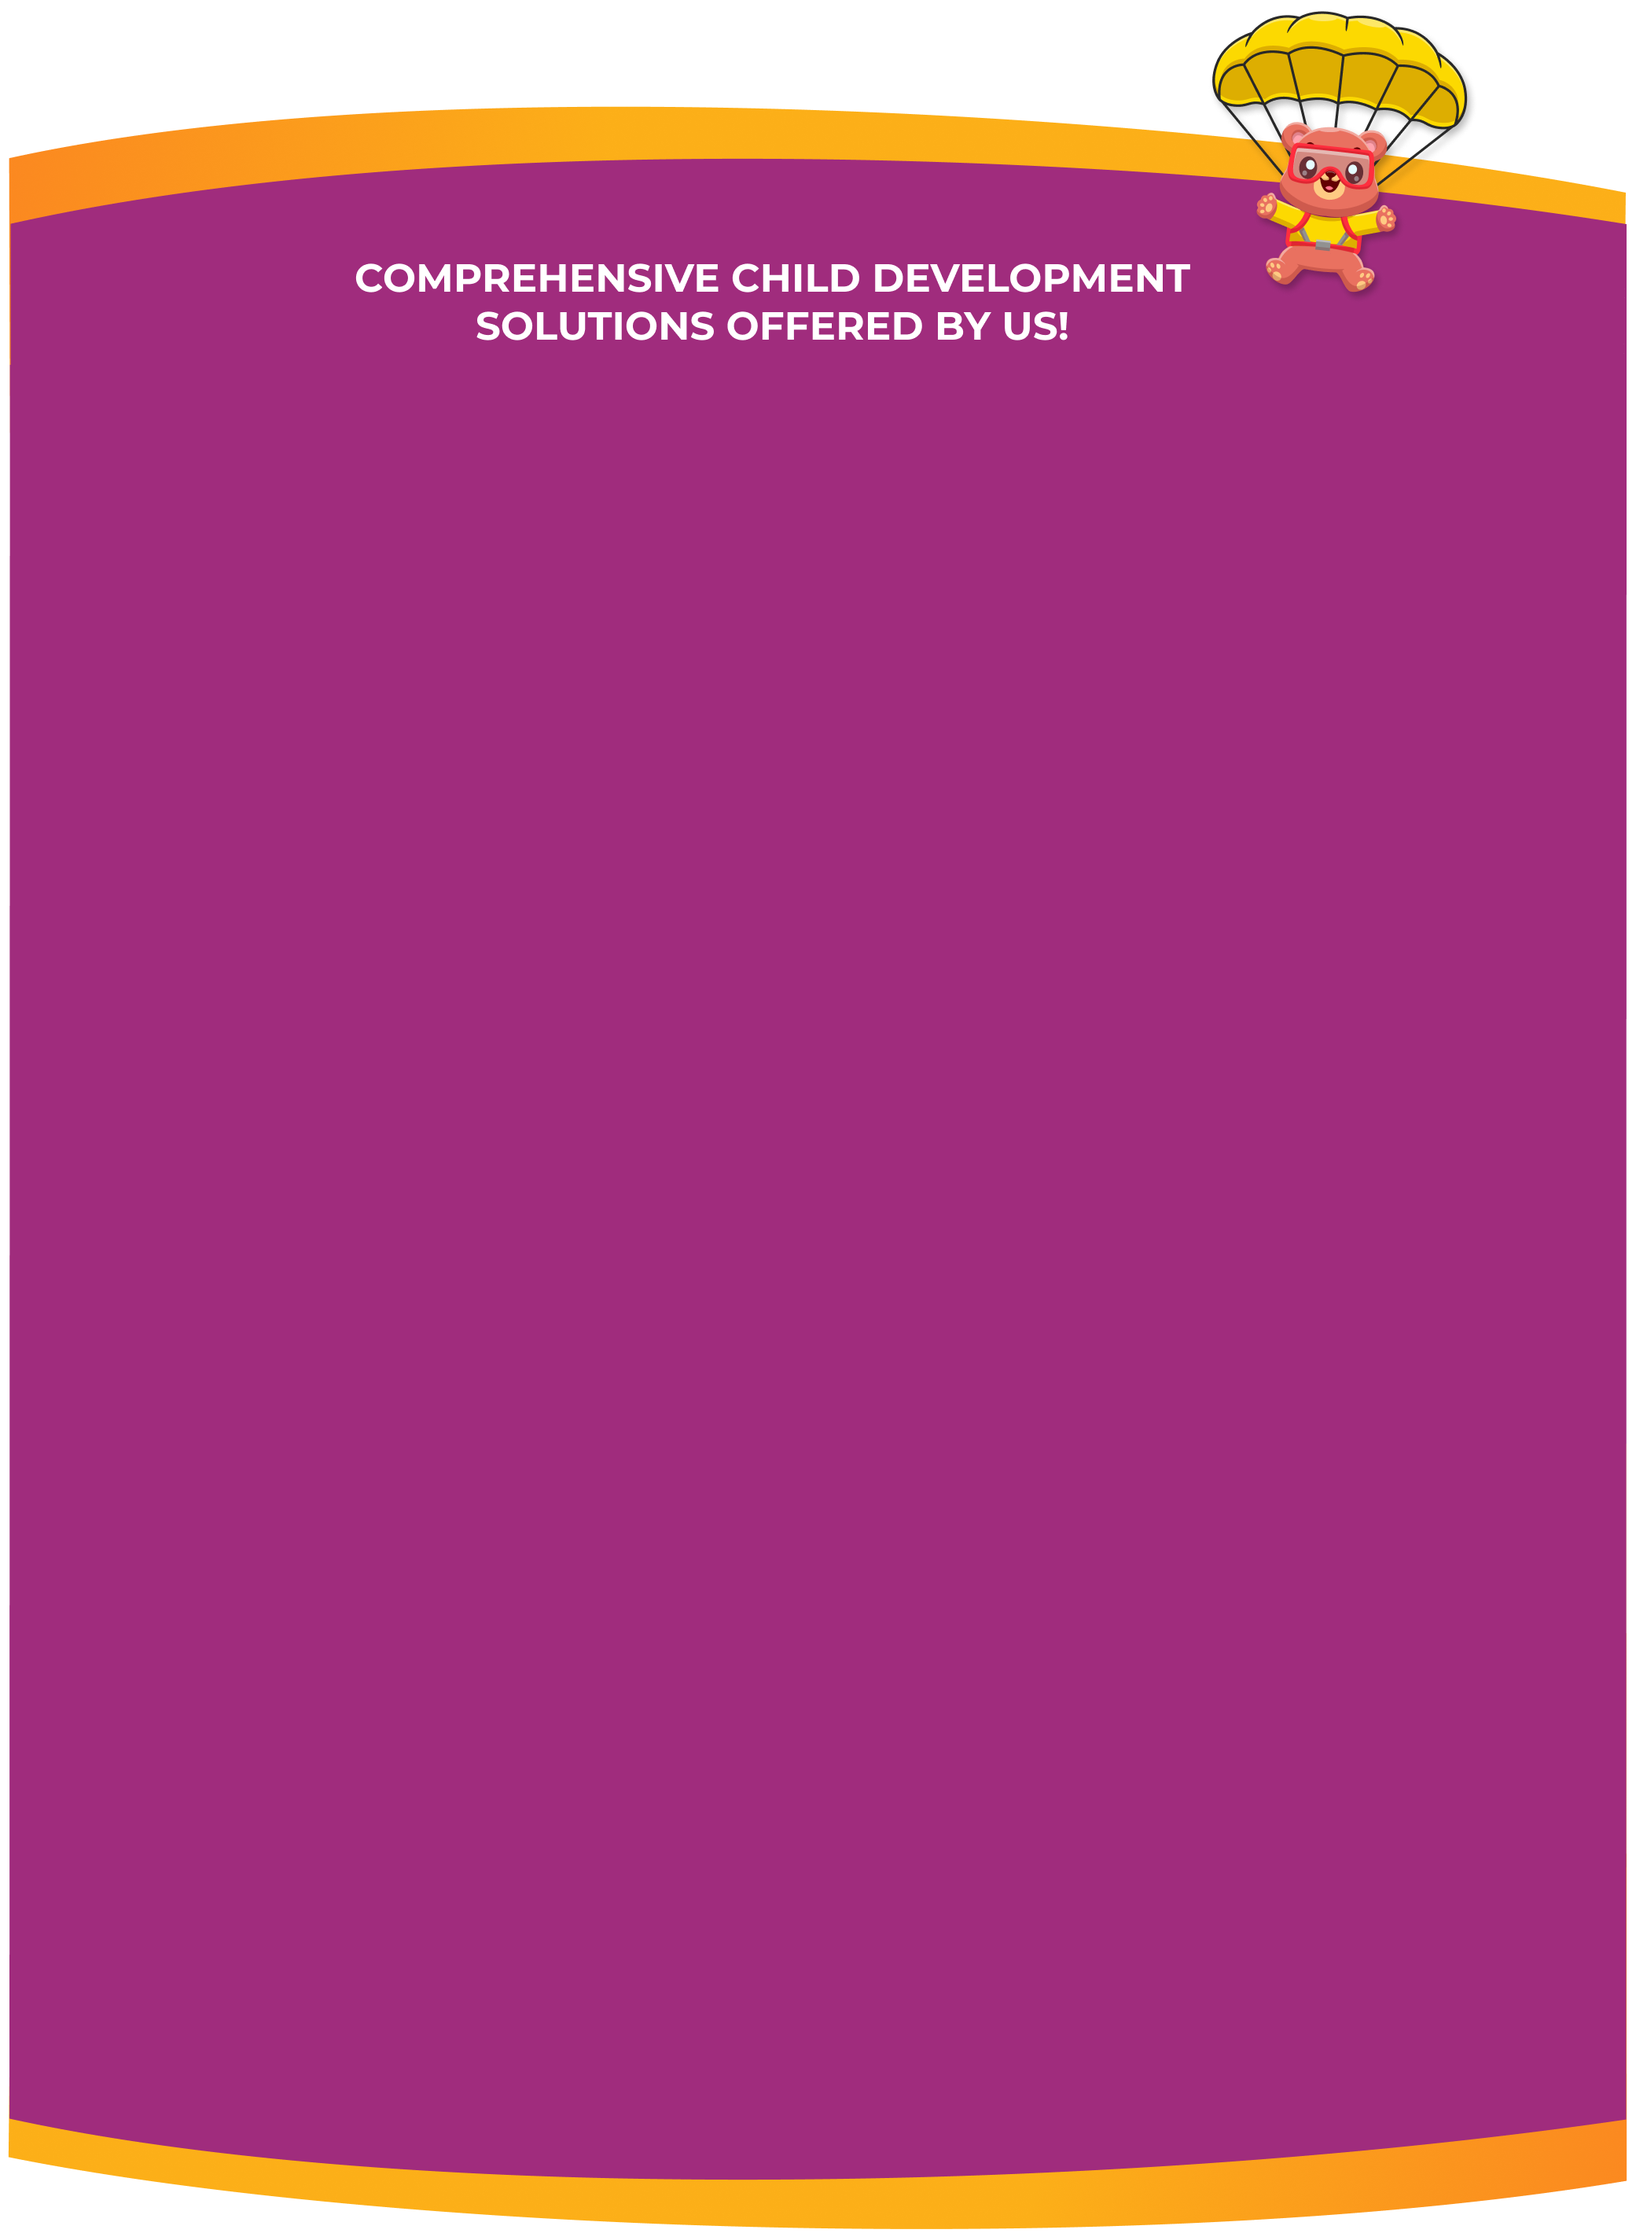
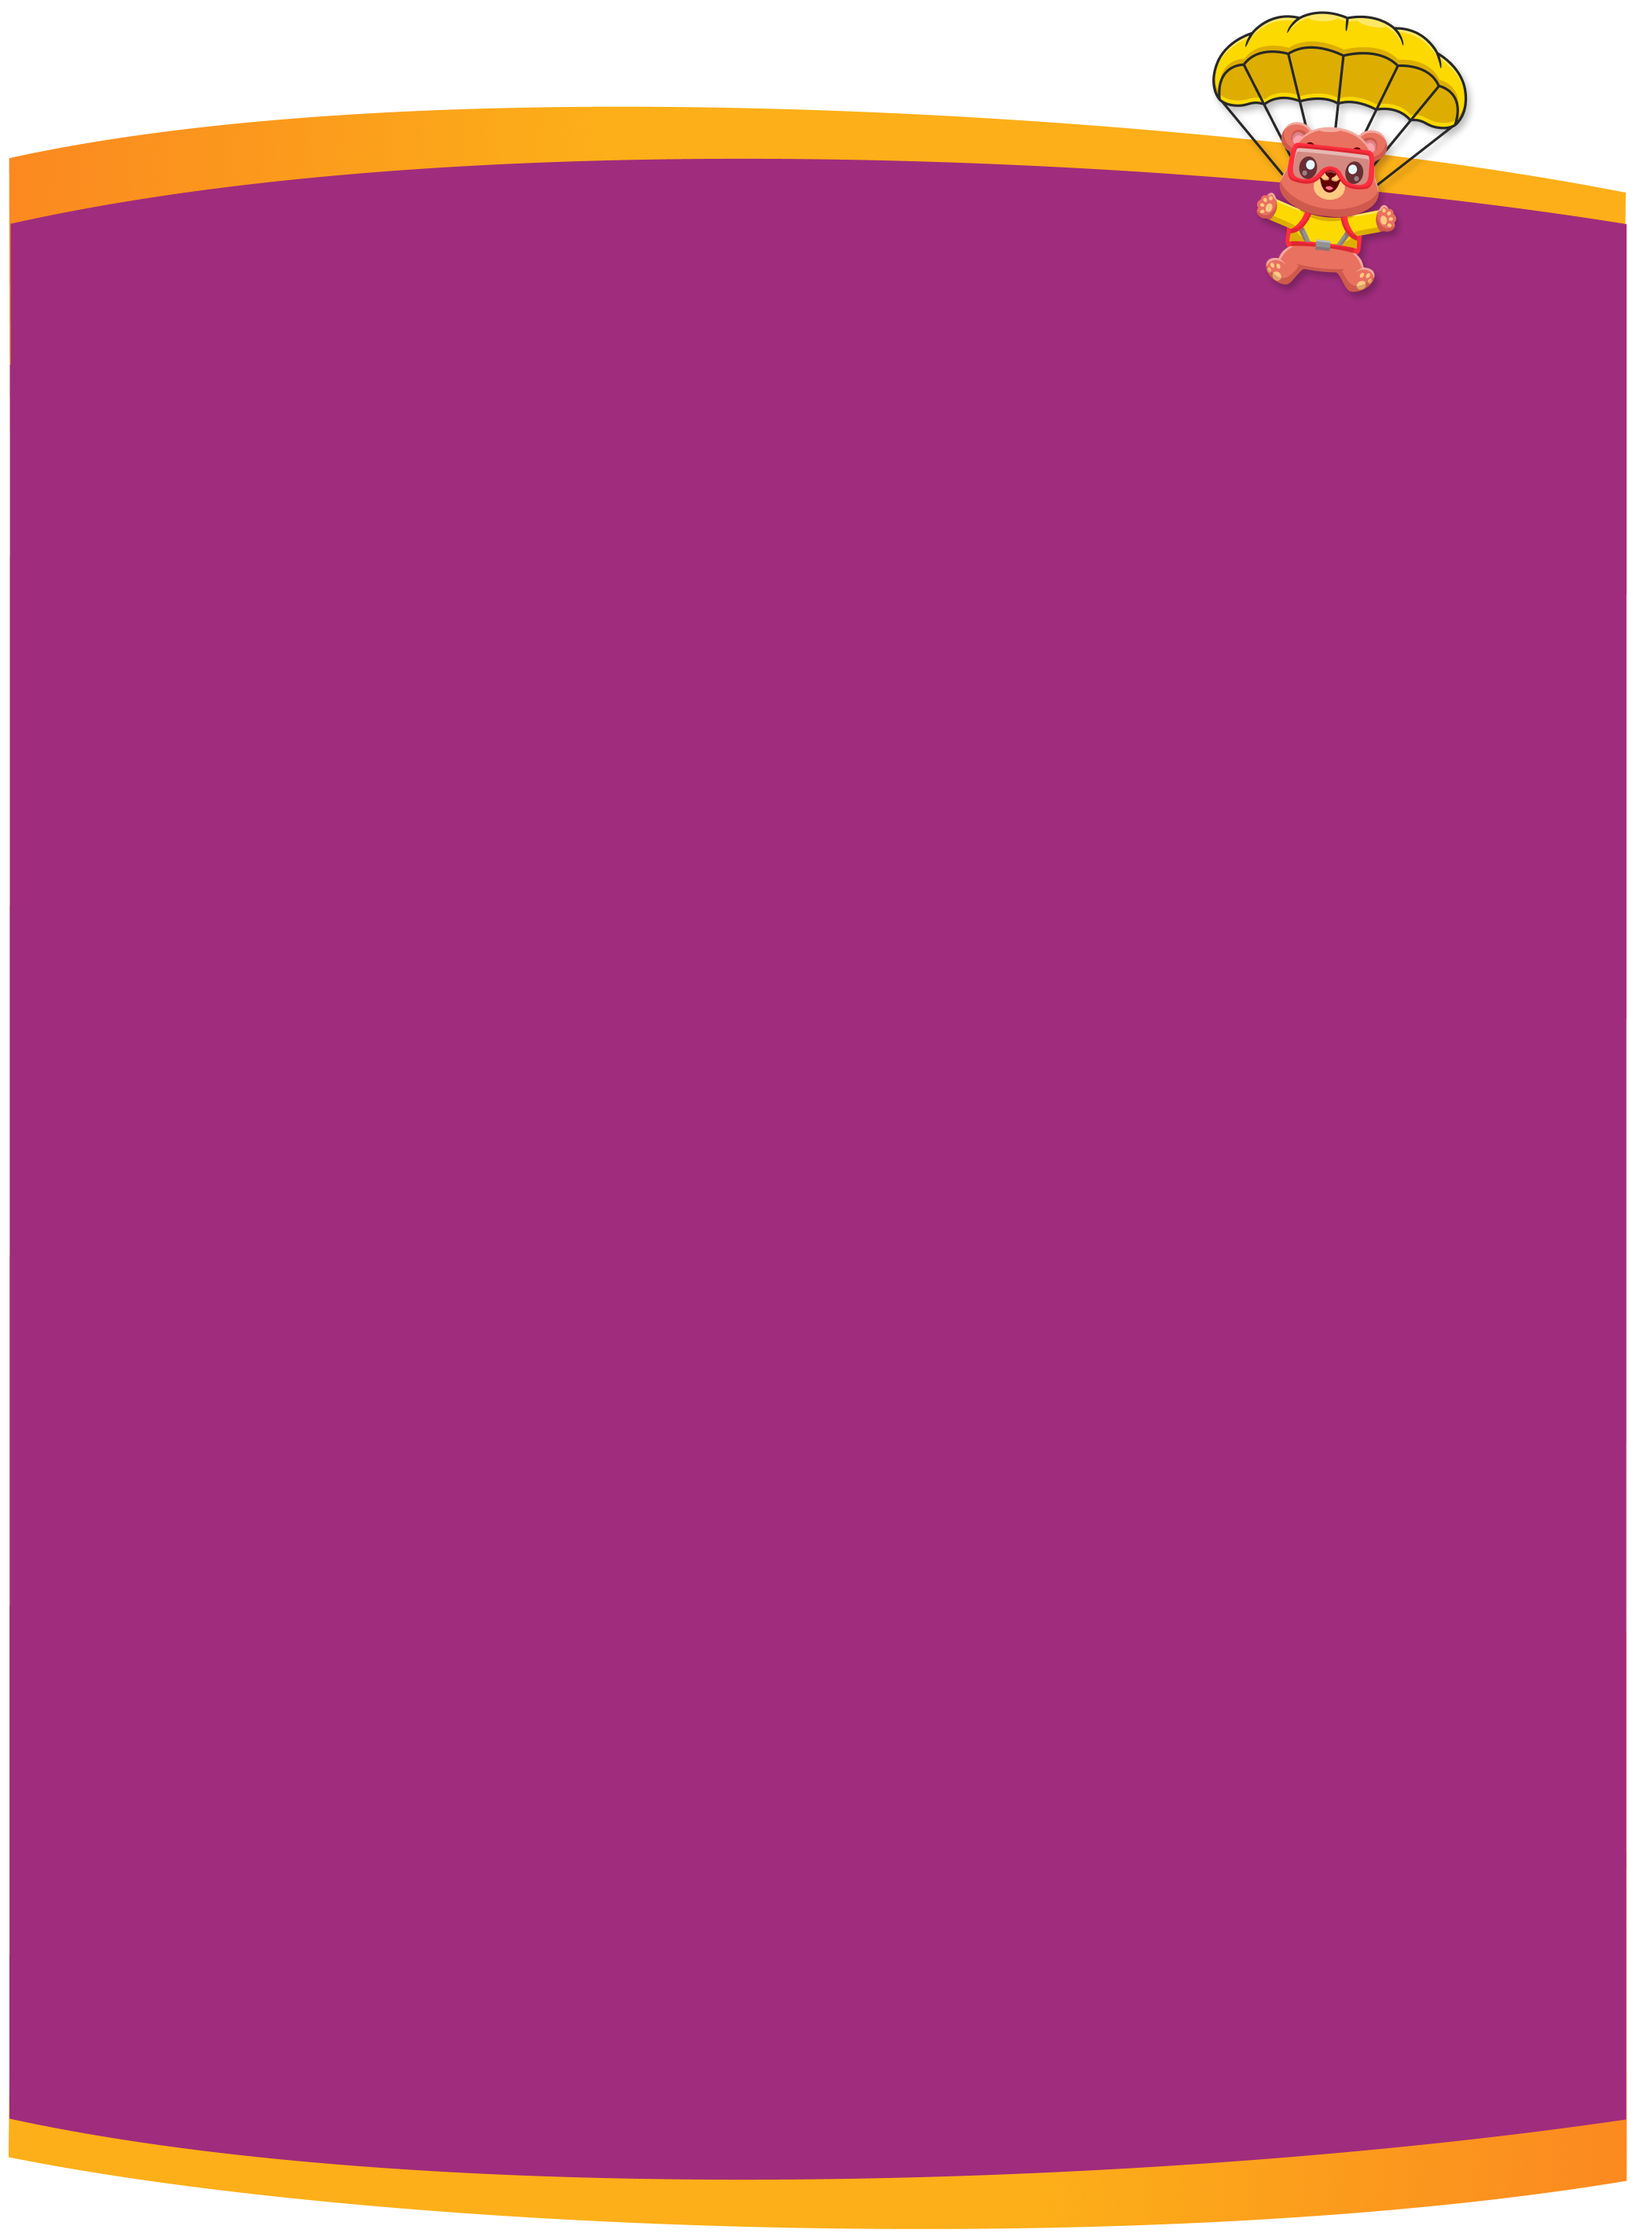
v2

Changed region(s): [[0.2186, 0.0928, 0.7184, 0.1547]]

diff --git a/src/pages/AboutUs.css b/src/pages/AboutUs.css
@@ -387,7 +387,13 @@
   position: relative;
   overflow: hidden;
   background: #ffffff;
-  padding: clamp(140px, 11vw, 220px) 24px clamp(100px, 20vw, 200px);
+  padding: clamp(240px, 18vw, 340px) 24px clamp(80px, 10vw, 140px);
+}
+
+@media (max-width: 900px) {
+  .about-glance-section {
+    padding: 140px 24px 30px;
+  }
 }
 
 .about-solutions-bg {
@@ -395,7 +401,8 @@
   top: -10px;
   left: 50%;
   transform: translateX(-50%);
-  width: 104%;
+  width: 150%;
+  max-width: none;
   height: calc(100% + 20px);
   object-fit: cover;
   object-position: top center;
@@ -408,54 +415,117 @@
   z-index: 2;
   max-width: 1200px;
   margin: 0 auto;
+  display: flex;
+  flex-direction: row;
+  align-items: center;
+  justify-content: center;
+  gap: 40px;
+}
+
+@media (max-width: 900px) {
+  .about-glance-inner {
+    flex-direction: column;
+    gap: 40px;
+  }
 }
 
 .about-glance-title {
-  text-align: center;
-  color: #a02c7d;
+  text-align: left;
+  color: #ffffff;
+  left: 200px;
+  position: relative;
   font-family: 'Montserrat', sans-serif;
-  font-size: clamp(2rem, 3.4vw, 3.5rem);
+  font-size: clamp(2rem, 3.2vw, 3.2rem);
   font-weight: 900;
-  margin-bottom: 60px;
+  margin: 0;
+  flex: 0 1 auto;
+  max-width: 300px;
 }
 
-.about-glance-grid {
-  display: grid;
-  grid-template-columns: repeat(auto-fit, minmax(300px, 1fr));
-  gap: 30px;
+@media (max-width: 900px) {
+  .about-glance-title {
+    text-align: center;
+    flex: 1 1 auto;
+    margin-bottom: 30px;
+    left: -10px;
+    position: relative;
+  }
 }
 
-.about-glance-card {
-  background: #ffffff;
-  border-radius: 20px;
-  padding: 30px 20px;
-  text-align: center;
-  box-shadow: 0 10px 30px rgba(0, 0, 0, 0.08);
-  transition: transform 0.3s ease, box-shadow 0.3s ease;
+.glance-new-stats-wrapper {
+  position: relative;
+  width: 100%;
+  flex: 0 0 74%;
+}
+
+.glance-new-stats-bg {
+  width: 100%;
+  height: auto;
+  position: relative;
+  left: 60px;
+  display: block;
+}
+
+.glance-pill {
+  position: absolute;
+  left: 42.5%;
+  width: 58%;
   display: flex;
-  flex-direction: column;
   align-items: center;
-  justify-content: center;
-  gap: 16px;
+  transform: translateY(-50%);
+  z-index: 2;
 }
 
-.about-glance-card:hover {
-  transform: translateY(-5px);
-  box-shadow: 0 15px 40px rgba(0, 0, 0, 0.12);
+/* Vertical centers refined to match the image's baked-in boxes */
+.pill-1 {
+  top: 13.5%;
 }
 
-.glance-icon {
-  font-size: 3rem;
-  line-height: 1;
+.pill-2 {
+  top: 28%;
 }
 
-.glance-text {
+.pill-3 {
+  top: 44%;
+}
+
+.pill-4 {
+  top: 58%;
+}
+
+.pill-5 {
+  top: 72%;
+}
+
+.pill-6 {
+  top: 86.5%;
+}
+
+/* 📱 MOBILE ONLY TWEAKS */
+@media (max-width: 900px) {
+  .glance-new-stats-wrapper {
+    flex: 1 1 auto;
+    max-width: 600px;
+  }
+
+  .glance-new-stats-bg {
+    left: 140px;
+    position: relative;
+    /* Adjust mobile image position here */
+  }
+
+  .glance-pill {
+    left: 57.5%;
+    position: absolute;
+  }
+}
+
+.glance-pill span {
   font-family: 'Lato', sans-serif;
-  font-size: 1.1rem;
   font-weight: 700;
   color: #333333;
-  margin: 0;
-  line-height: 1.5;
+  font-size: clamp(0.6rem, 2.2vw, 1.15rem);
+  line-height: 1.3;
 }
 
 .about-moments-section {
@@ -541,6 +611,11 @@
    ABOUT US MOBILE — BASE LAYER (< 768px)
    ───────────────────────────────────────────────────── */
 @media (max-width: 767.98px) {
+
+  .glance-new-stats-wrapper {
+    width: 180%;
+    left: -40%;
+  }
 
   /* --- Journey Canvas --- */
   .journey-canvas {

diff --git a/src/pages/AboutUs.jsx b/src/pages/AboutUs.jsx
@@ -12,6 +12,7 @@ import group150 from '../assets/pages/about us/Group 150.png';
 import frame44 from '../assets/pages/about us/Frame 44.png';
 import group166 from '../assets/pages/about us/Group 166.png';
 import frame45 from '../assets/pages/about us/Frame 45.png';
+import newStatsImg from '../assets/pages/about us/new-stats.png';
 
 // Moment photos
 import moment1 from '../assets/pages/moment/IMG_20260605_021109_034.jpg.jpeg';
@@ -120,31 +121,14 @@ export default function AboutUs() {
         <img className="about-solutions-bg" src={group166} alt="" aria-hidden="true" />
         <div className="about-glance-inner">
           <h2 className="about-glance-title">High Sky at a Glance</h2>
-          <div className="about-glance-grid">
-            <div className="about-glance-card">
-              <div className="glance-icon">👶</div>
-              <p className="glance-text">1000+ Children Supported</p>
-            </div>
-            <div className="about-glance-card">
-              <div className="glance-icon">📍</div>
-              <p className="glance-text">2 Centers Across Hyderabad<br/>(Kondapur & Manikonda)</p>
-            </div>
-            <div className="about-glance-card">
-              <div className="glance-icon">🗓</div>
-              <p className="glance-text">6+ Years of Service</p>
-            </div>
-            <div className="about-glance-card">
-              <div className="glance-icon">🤝</div>
-              <p className="glance-text">Experienced Multidisciplinary Team</p>
-            </div>
-            <div className="about-glance-card">
-              <div className="glance-icon">👨👩👧👦</div>
-              <p className="glance-text">Trusted by Families Across Hyderabad</p>
-            </div>
-            <div className="about-glance-card">
-              <div className="glance-icon">🌱</div>
-              <p className="glance-text">Personalized Development Plans</p>
-            </div>
+          <div className="glance-new-stats-wrapper">
+            <img src={newStatsImg} alt="High Sky Stats" className="glance-new-stats-bg" />
+            <div className="glance-pill pill-1"><span>1000+ Children Supported</span></div>
+            <div className="glance-pill pill-2"><span>2 Centers Across Hyderabad<br />(Kondapur & Manikonda)</span></div>
+            <div className="glance-pill pill-3"><span>6+ Years of Service</span></div>
+            <div className="glance-pill pill-4"><span>Experienced Multidisciplinary Team</span></div>
+            <div className="glance-pill pill-5"><span>Trusted by Families Across Hyderabad</span></div>
+            <div className="glance-pill pill-6"><span>Personalized Development Plans</span></div>
           </div>
         </div>
       </section>

diff --git a/src/pages/Home.css b/src/pages/Home.css
@@ -1581,7 +1581,6 @@
   .commitment-desc {
     font-size: 1.4rem;
     line-height: 1.55;
-    text-transform: uppercase;
     letter-spacing: 0.2px;
     max-width: 75%;
     height: auto;
@@ -2200,7 +2199,7 @@
     font-size: clamp(0.8rem, 3.8vw, 1rem);
     width: 100vw;
     position: relative;
-    left: calc(-50vw + 50%);
+    left: 2px;
     text-align: center;
     padding: 0 10px;
   }
@@ -2227,12 +2226,12 @@
     font-family: 'lato', sans-serif;
     line-height: 1.4;
     margin-bottom: 20px;
-    text-transform: lowercase;
+    text-transform: none;
     max-width: 746px;
   }
 
   .hero-seo-text {
-    font-size: clamp(0.95rem, 4.8vw, 1.25rem);
+    font-size: clamp(0.75rem, 3.5vw, 0.95rem);
     width: 100vw;
     position: relative;
     left: calc(-50vw + 50%);
@@ -2255,12 +2254,12 @@
   }
 
   .commitment-heading {
-    font-size: 1.4rem;
+    font-size: 1.5rem;
     font-family: 'Montserrat', sans-serif;
   }
 
   .commitment-desc {
-    font-size: 0.85rem;
+    font-size: 1rem;
     font-family: 'Lato', sans-serif;
     line-height: 1.5;
   }
@@ -2332,7 +2331,7 @@
   }
 
   p.hero-seo-text {
-    font-size: clamp(0.95rem, 4.8vw, 1.25rem);
+    font-size: clamp(0.75rem, 3.5vw, 0.95rem);
     width: 100vw;
     position: relative;
     left: calc(-50vw + 50%);
@@ -2751,7 +2750,7 @@
 }
 
 p.intro-section-p {
-  font-size: 1.375rem;
+  font-size: 0.865rem;
   font-weight: 400;
   color: rgba(255, 255, 255, 0.85);
   font-family: 'lato', sans-serif;
@@ -3482,18 +3481,18 @@ p.intro-section-p {
   }
 
   .hero-seo-text {
-    font-size: clamp(0.95rem, 4.8vw, 1.25rem);
+    font-size: clamp(0.75rem, 3.5vw, 0.95rem);
     width: 100vw;
     position: relative;
     left: calc(-50vw + 50%);
     margin-bottom: 12px;
     text-align: center;
     padding: 0 15px;
-    font-weight: 800;
+    font-weight: 650;
   }
 
   .intro-section-h2 {
-    font-size: 1.2rem;
+    font-size: 1.5rem;
     text-align: center;
   }
 

diff --git a/src/components/StatsSection.css b/src/components/StatsSection.css
@@ -82,38 +82,32 @@
     padding: 0;
   }
 
-  /* Switch to single row */
+  /* Switch to 2x2 grid */
   .stats-container {
-    display: flex;
-    flex-direction: row;
-    flex-wrap: nowrap;
+    display: grid;
+    grid-template-columns: 1fr 1fr;
     align-items: center;
-    justify-content: space-evenly;
     gap: 0;
   }
 
-  /* Show all dividers at mobile-friendly height */
+  /* Hide DOM dividers on mobile */
   .stat-divider {
-    display: block;
-    height: 60px;
-    width: 2px;
-    flex-shrink: 0;
+    display: none;
   }
 
   .stat-item {
-    flex: 1;
-    padding: 16px 4px;
-    gap: 2px;
+    padding: 24px 8px;
+    gap: 6px;
     min-width: 0;
   }
 
-  /* Remove the border-right workaround — dividers handle it now */
+  /* Restore border dividers for 2x2 grid */
   .stat-item--left {
-    border-right: none;
+    border-right: 2px solid #9a2ed7;
   }
 
   .stat-item--top {
-    border-bottom: none;
+    border-bottom: 2px solid #9a2ed7;
   }
 
   .stat-number {
